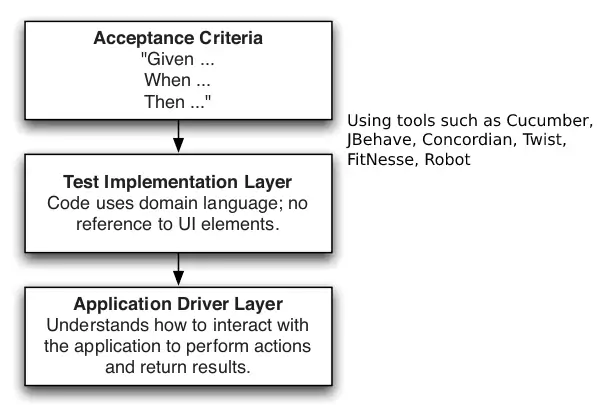
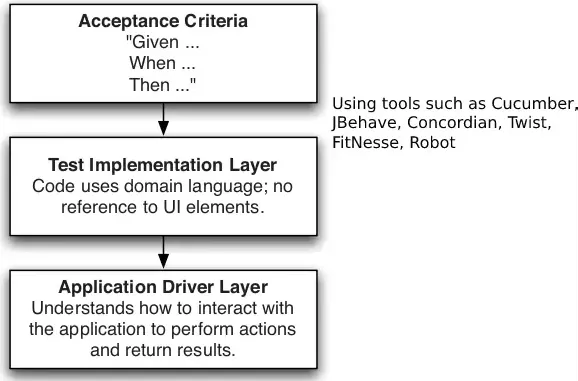
Make the paragraphs in the 10-automated-acceptance-testing presentation smaller.

Changed region(s): [[0.0, 0.0, 1.0, 1.0]]

diff --git a/index.html b/index.html
@@ -30,7 +30,7 @@
             full-screen mode by pressing <strong>F</strong>, initiate a search by pressing
             <strong>Ctrl+Shift+F</strong>, zoom in by pressing <strong>Ctrl+MouseClick</strong>, and print as PDF by
             appending <strong>?print-pdf</strong> to the end of the URL and using the browser's print dialog.
-        </p>         
+        </p>
         <ul>
             <li><a href="1-outline">Course Outline</a></li>
             <li><a href="2-introduction">Introduction</a></li>

diff --git a/10-automated-acceptance-testing/presentation.md b/10-automated-acceptance-testing/presentation.md
@@ -4,22 +4,22 @@
 <img src="assets/user-story-acceptance-criteria-and-test.webp"/>
 
 <small><strong>Time to Read:</strong> 10 Minutes</small>, <small><strong>Time to Present:</strong> 50 Minutes</small>
-
+<br>
 <small><strong>Created By:</strong> Alireza Roshanzamir</small>
-
+<br>
 <small><strong>Keywords:</strong> Continuous Delivery, Continuous Integration, DevOps, Build, Test, Release, Deployment, Automation, Version Control, Deployment Pipeline</small>
-
-<small><small> Tir 1402/August 2023</small></small>
+<br><br>
+<small style="color: darkred"><small>Press **"F"** to go fullscreen; some slides may not display properly otherwise.</small></small>
 
 ---
 ## Introduction
-Once you have automated acceptance tests in place, you are testing the **business acceptance criteria** of your application, that is, validating that **it provides users with valuable functionality**.
+Automating acceptance tests ensures your application meets  **business acceptance criteria** and **delivers valuable functionality**.
 
-They typically **run against** every version of your **software that passes the commit tests**.  <!-- .element: class="fragment fade-in-paragraph" -->
+Thet usually run on **every software version** that **passes commit tests**.  <!-- .element: class="fragment fade-in-paragraph custom" -->
 
-An individual acceptance test is intended to verify that the **acceptance criteria** of a **story or requirement** have been met.  <!-- .element: class="fragment fade-in-paragraph" -->
+Each **acceptance test** aims to confirm if a **story or requirement's acceptance criteria** are fulfilled.  <!-- .element: class="fragment fade-in-paragraph custom" -->
 
-A **unit test** aims to show that a **single part of the application does what the programmer intends** it to; this is by no means the same as asserting that a **user has what they need**.  <!-- .element: class="fragment fade-in-paragraph" -->
+Unit tests check if **a specific app part** works as intended **by the programmer**, which **isn't** the same as ensuring **user needs** are met.  <!-- .element: class="fragment fade-in-paragraph custom" -->
 
 <img src="assets/acceptance-test-stage.webp">
 
@@ -27,23 +27,25 @@ A **unit test** aims to show that a **single part of the application does what t
 ## Why Is Automated Acceptance Testing Essential?
 <img src="assets/why-meme.webp" class="fragment start">
 
-There has always been a **great deal of controversy** around automated acceptance tests.  <!-- .element: class="fragment fade-in-paragraph" -->
+Automated acceptance tests have **long been a subject of controversy**.  <!-- .element: class="fragment fade-in-paragraph custom" -->
 
-**Project managers** and **customers** often think they are too expensive to create and maintain-which indeed, when done badly, they are.  <!-- .element: class="fragment fade-in-paragraph" -->
+**Project managers** and **customers** often think they are **too expensive** to **create** and **maintain**-indeed, when **done badly, they are**.  <!-- .element: class="fragment fade-in-paragraph custom" -->
 
-Many developers believe that unit test suites created through **test-driven development** are **enough to protect against regressions**.  <!-- .element: class="fragment fade-in-paragraph" -->
+Developers often think unit tests from **test-driven development** are **enough to prevent regressions**.  <!-- .element: class="fragment fade-in-paragraph custom" -->
 
-But, the **cost of a properly created and maintained** automated acceptance test suite is **much lower** than that of **performing frequent manual acceptance and regression testing**, or that of the alternative of releasing **poor-quality software**.  <!-- .element: class="fragment fade-in-paragraph" -->
+But, a **well-maintained automated** acceptance test suite costs **far less** than **manual acceptance and regression testing** or **releasing low-quality software**.  <!-- .element: class="fragment fade-in-paragraph custom" -->
 
-Some people **in the Agile community** advocate that a combination of **unit** and **component tests** and **XP practices** are sufficient but:  <!-- .element: class="fragment fade-in-parent-with-next" -->
-1. **No other type of test** proves that the application, running more or less as it would in production, **delivers the business** value its users are expecting.
-2. Unit and component tests **do not test user scenarios** and are thus incapable of finding the kinds of defects that appear when users put the application through a **series of states** in the course of interacting with it.
+Some people **in the Agile community** suggest that a mix of **unit** and **component tests** along with **XP practices** suffice, but:  <!-- .element: class="fragment fade-in-parent-with-next custom" -->
+1. **No other type of test** proves that the application, running similarly to production, **delivers the business value** to users.
+2. Unit and component tests **don't test user scenarios**, so they **can't find** defects that **arise as users interact** with the application through a **series of states**.
+
+<img src="assets/user-interaction-meme.jpg" width="220" class="fragment fade-in">
 
 ------
 ### How to Create Maintainable Acceptance Test Suites: INVEST
 <img src="assets/write-vs-maintain-tests2-meme.webp" class="fragment start">
 
-Acceptance tests are derived from **acceptance criteria**, so the acceptance criteria for your application must be written with automation in mind and must follow the **INVEST** principles:  <!-- .element: class="fragment fade-in-parent-with-next" -->
+Acceptance tests come from **acceptance criteria**, so your criteria must consider automation and follow the **INVEST** principles:  <!-- .element: class="fragment fade-in-parent-with-next custom" -->
 - **I**ndependent (of all others)
 - **N**egotiable (not a contract for specific feature)
 - **V**aluable (a vertical slice)
@@ -52,19 +54,83 @@ Acceptance tests are derived from **acceptance criteria**, so the acceptance cri
 - **T**estable (even if the test doesn't exist yet)
 
 ------
+### Continued: How to Create Maintainable Acceptance Test Suites: INVEST
+Examples (from [here](https://capgemini.github.io/agile/invest-in-user-stories/) and [here](https://www.towerhousestudio.com/blog/how-to-evaluate-your-user-stories-using-the-invest-criteria)):
+- User Story:
+  <table style="font-size: 17px">
+    <tr>
+      <th>Bad</th>
+      <th>Better</th>
+    </tr>
+    <tr>
+      <td>
+        As a customer, I want the website to have a new layout and design so that it looks more modern.
+        <details>
+          <summary>Why?</summary>
+          This User Story is not independent as it requires changes to be made to the entire website. It is also not easily estimable as it is too broad and could require significant effort to complete.
+        </details>
+      </td>
+      <td>
+        As a customer, I want to search for products by category so that I can find the products I am looking for more easily.
+      </td>
+    </tr>
+    <tr>
+      <td>
+        As a salesperson, I want to view all of the company's financial information so that I can make better business decisions.
+        <details>
+          <summary>Why?</summary>
+          This User Story is not negotiable as it requests access to sensitive information. It is also not easily testable as it requires access to sensitive financial information.
+        </details>
+      </td>
+      <td>
+        As a salesperson, I want to view a list of my customers so that I can keep track of my customer relationships.
+      </td>
+    </tr>
+    <tr>
+      <td>
+        As an XYZ customer ordering using the website, I want to be able to use the One-click Payment option, so that I can skip the payment pages and complete my order faster.
+        <details>
+          <summary>Why?</summary>
+          <strong>Type of Customers</strong>: Is this feature available to all new and existing customers?<br>
+          <strong>New Customers</strong>: What should be the workflow for a new customer after the One-click Payment option has gone live?<br>
+          <strong>First Visit of Existing Customers without saved card details</strong>: What should be the workflow of an existing customer who has not saved any card details and visits for the first time after the One-click Payment option has gone live?<br>
+          <strong>First Visit of Existing Customers with saved card details</strong>: What should be the workflow of an existing customer who has already saved their card details and visits for the first time after the One-click Payment option has gone live?<br>
+          <strong>Existing Customers not opted for One-click Payment</strong>: What should be the workflow of an existing customer who has not opted to register for the One-click Payment in their previous visit after the feature has gone live?<br>
+          <strong>Existing One-click Payment Customers</strong>: What should be the workflow of an existing customer who has successfully registered their card for the One-click Payment in their previous visit?<br>
+        </details>
+      </td>
+      <td>
+        As an EXISTING ONE-CLICK PAYMENT XYZ CUSTOMER ordering from the <strong>WEB</strong> using a <strong>DESKTOP OR LAPTOP</strong>, I want to be able to CLICK ON THE ONE-CLICK PAYMENT OPTION so that I can skip the payment pages and complete my order faster.
+      </td>
+    </tr>
+  </table>
+
+
+- <!-- .element: class="fragment fade-in" --> Acceptance Criteria:
+  **Given**: An EXISTING ONE-CLICK PAYMENT WEB XYZ Customer, **When**: The Customer orders through the website and clicks on Checkout using a desktop or a laptop, **Then**: The Customer must be presented with a One-click Payment button.
+
+  **Checklists**: This test must pass when tested on:
+  - Approved versions of IE browsers
+  - Approved versions of Chrome browsers
+  - Approved versions of Firefox browsers
+  - Approved versions of Safari browsers
+
+------
 ### How to Create Maintainable Acceptance Test Suites: Layering
-Automated acceptance tests should always be layered:
+Automated acceptance tests should be layered:
 
-<img src="assets/acceptance-tests-layers.webp" width="600">
+<img src="assets/acceptance-tests-layers.webp" width="450">
 
-Test implementations that **refer directly** to the **application's API** or **UI** are **brittle**, and even **small changes to the UI** will immediately **break all the tests** referring to the changed UI element. Such tests are often the output of **record-and-playback-style test** automation products, which is one of the main reasons automated acceptance tests are perceived as expensive.
+Tests that **directly use** the **application's API** or **UI** are **brittle** and **minor UI changes** can **break all such tests**. They often result from **record-and-playback-style test** automation tools, one of the main reasons automated acceptance tests are perceived as expensive.  <!-- .element: class="fragment fade-in-parent-with-next custom" -->
+
+<img src="assets/test-record-and-playback-tool.png" width="530" style="border: 1px solid lightgray">
 
 ------
 ### Testing against the GUI
 <img src="assets/ui-automation-tests-failed-meme.webp" class="fragment start">
 
-Drawbacks of the GUI testing:  <!-- .element: class="fragment fade-in-with-next" -->
-- Its rapid rate of change  <!-- .element class="fragment highlight-current-blue" -->
+Drawbacks of the GUI testing:  <!-- .element: class="fragment fade-in-with-next custom" -->
+- Rapid rate of change  <!-- .element class="fragment highlight-current-blue" -->
 - <!-- .element class="fragment highlight-current-blue" --> The complexity of scenario setup
   - Many interactions to get the system into a state ready for the test itself
 - Access to test results  <!-- .element class="fragment highlight-current-blue" -->
@@ -72,46 +138,46 @@ Drawbacks of the GUI testing:  <!-- .element: class="fragment fade-in-with-next"
 
 ---
 ## Creating Acceptance Tests
-Start with the identification of **acceptance criteria** by **analysts**, **testers**, and **customers** working together, and then talk about **representing acceptance criteria in a form that can be automated**.
+Begin with **analysts**, **testers**, and **customers** collaborating to **identify acceptance criteria**. Then, **transform** these criteria into **a format suitable for automation**.
 
 ------
 ### The Role of Analysts and Testers
 The role of the **business analyst** is:
 - Represent the customers and users of the system. They work with the customer to identify and prioritize requirements.  <!-- .element class="fragment highlight-current-blue" -->
-- Work with the developers to ensure that they have a good understanding of the application from the user's perspective. They guide developers to ensure that stories deliver the business value that they are meant to.  <!-- .element class="fragment highlight-current-blue" -->
-- Work with testers to ensure that acceptance criteria are specified properly, and to ensure that functionality developed meets these acceptance criteria and delivers the expected value.  <!-- .element class="fragment highlight-current-blue" -->
+- Work with developers to ensure they grasp the application from the user's perspective. Guide developers to ensure that stories deliver the intended business value.  <!-- .element class="fragment highlight-current-blue" -->
+- Work with testers to ensure correct acceptance criteria and functionality alignment, delivering expected value.  <!-- .element class="fragment highlight-current-blue" -->
 
-The role of the **testers** is:  <!-- .element class="fragment fade-in-parent-with-next" -->
-- Ensure that the current quality and production-readiness of the software being developed is understood by everybody on the delivery team, including the customer.  <!-- .element class="fragment highlight-current-blue" -->
+The role of the **testers** is:  <!-- .element class="fragment fade-in-parent-with-next custom" -->
+- Ensure everyone, including the customer, understands the software's current quality and production readiness.  <!-- .element class="fragment highlight-current-blue" -->
 - Working with customers and analysts to define acceptance criteria for stories or requirements.  <!-- .element class="fragment highlight-current-blue" -->
 - Working with developers to write automated acceptance tests.  <!-- .element class="fragment highlight-current-blue" -->
 - Performing manual testing activities such as exploratory testing, manual acceptance testing, and showcases.  <!-- .element class="fragment highlight-current-blue" -->
 
-Not every team has **separate individuals** who perform **these roles 100% of the time**. Sometimes, **developers act as analysts**, or **analysts act as testers**. In **Scrum** teams, **product owners** may do the analyst jobs.  <!-- .element class="fragment fade-in-paragraph" -->
+Not every team has **separate individuals** who perform **these roles 100% of the time**. Sometimes, **developers act as analysts**, or **analysts act as testers**. In **Scrum** teams, **product owners** may do the analyst jobs.  <!-- .element class="fragment fade-in-paragraph custom" -->
 
 ------
 ### Analysis on Iterative Projects
-1. Initially, the **analysts** will work closely with **testers** and the **customer** to define **acceptance criteria**.  <!-- .element class="fragment fade-in-then-semi-out-parent" -->
-2. Once the **acceptance criteria have been defined**, the **analyst** and **tester** sit with the **developers** who will do the implementation, along **with the customer if available**. The **tester works with the developers** to **agree on a collection of automated acceptance tests**.  <!-- .element class="fragment fade-in-then-semi-out-parent" -->
-3. While the requirement is **being implemented**, the **developers** will **consult with the analyst** if they find an **area that they don't understand** well enough, or if they have discovered a problem or a more efficient approach to solving the problem that the requirement poses.  <!-- .element class="fragment fade-in-then-semi-out-parent" -->
-4. When the **developers** believe that they have **completed the work** (passed associated **unit**, **component**, and **acceptance tests**), they will **demonstrate** it to the **analyst**, the **tester**, and the **customer**.  <!-- .element class="fragment fade-in-then-semi-out-parent" -->
-5. Once the **analyst** and the **customer** are happy that the **requirement has been fulfilled**, it **moves on to testing by the testers**.  <!-- .element class="fragment fade-in-then-semi-out-parent" -->
+1. At first, **analysts** collaborate with **testers** and the **customer** to define **acceptance criteria**.  <!-- .element class="fragment fade-in-then-semi-out-parent custom" -->
+2. Then, just before implementation, the **analyst**, **tester**, and **developers** (plus the customer if available) **meet**. The **analyst** explains the **requirement and criteria**, and the **tester and developers** **create automated tests** for validation.  <!-- .element class="fragment fade-in-then-semi-out-parent custom" -->
+3. While **implementing the requirement**, **developers** **consult with the analyst** if they **encounter unclear areas** or **identify issues or better solutions** to address the requirement.  <!-- .element class="fragment fade-in-then-semi-out-parent custom" -->
+4. Once **developers** believe they've **finished the work** (including passing **unit**, **component**, and **acceptance tests**), they'll **present** it to the **analyst**, **tester**, and **customer**.  <!-- .element class="fragment fade-in-then-semi-out-parent custom" -->
+5. Once the **analyst** and the **customer** are happy that the **requirement has been fulfilled**, it **moves on to testing by the testers**.  <!-- .element class="fragment fade-in-then-semi-out-parent custom" -->
 
 <img src="assets/roles.webp">
 
 ------
 ### Acceptance Criteria as Executable Specifications (BDD)
-Acceptance tests are **executable specifications** of the **behavior of the software** being developed. This is a significant realization which has spawned a new approach to automated testing, known as **behavior-driven development (BDD)**.  <!-- .element class="fragment fade-in-paragraph" -->
+Acceptance tests act as **executable specs** for the **software's behavior**, lead to **behavior-driven development** in automated testing.
 
-In BDD, **acceptance criteria** should be written in the form of the **customer's expectations** of the behavior of the application. It should then be possible to take acceptance criteria thus written, and **execute them directly** against the application to **verify that the application meets its specifications**.  <!-- .element class="fragment fade-in-paragraph" -->
+In BDD, **acceptance criteria** are **customer expectations** for **application behavior**, **written** to **execute directly** and **verify compliance with specifications**.  <!-- .element class="fragment fade-in-paragraph custom" -->
 
-Most **specifications** begin to **become out-of-date** as the application evolves. But, with BDD and deployment pipeline, it's not possible.  <!-- .element class="fragment fade-in-paragraph" -->
+Most **specifications** can **become outdated** as the application evolves, but with BDD and a deployment pipeline, it's not possible.  <!-- .element class="fragment fade-in-paragraph custom" -->
 
 ------
 ### Acceptance Criteria as Executable Specifications Example
-Financial trading application acceptance criterion and corresponding **Ruby Cucumber** implementation:
+Financial trading application acceptance criterion and **Ruby Cucumber** implementation:
 
-<pre class="gherkin"><code style="font-size: 15px; line-height: normal;" data-trim data-noescape>Feature: Placing an order
+<pre class="gherkin"><code style="font-size: 17px; line-height: normal;" data-trim data-noescape>Feature: Placing an order
 Scenario: User order should debit account correctly
 
 Given there is an instrument called bond
@@ -123,7 +189,7 @@ When I log in as Dave
 Then I have 10 dollars left in my account
 </code></pre>
 
-<pre class="ruby"><code style="font-size: 15px; line-height: normal; height: 200px">require 'application_driver/admin_api'
+<pre class="ruby"><code style="font-size: 17px; line-height: normal; height: 200px">require 'application_driver/admin_api'
 require 'application_driver/trading_ui'
 
 Before do
@@ -172,17 +238,17 @@ You should implement the **AdminApi** and **TradingUi** drivers. Running result:
 0m0.016s
 </code></pre>
 
-These executable specifications can generally be **turned into a document** suitable for auditing using a simple, automated process.
+You can turn these specs into an audit-friendly **document** with a simple automated process.
 
 ---
 ## Testing and Documentation
-In addition to using BDD and employing human-readable executable specifications within the documentation, you can include the **tests as illustrative examples in the documents**. By **making assertions**, you should validate the outcomes of the code showcased in the documentation's examples. Consequently, the **code within the documentation** could effectively serve as an **automated acceptance test**, contributing to the concept of **"living documentation"**:
+Besides using BDD and human-readable executable specs in documentation, you can also include **tests as examples in the documents**. By **asserting** and **validating code outcomes** in the documentation's examples, this code can serve as **automated acceptance tests**, supporting the idea of **"living documentation"**:
 
 <img src="assets/living-documentation.webp">
 
 ------
 ### Testing and Documentation: Doctest
-Write **usage examples** for your code that work as **documentation** and **test cases** simultaneously:
+Create **usage examples** that serve as both **documentation** and **test cases** simultaneously:
 
 <table>
   <tr>
@@ -190,18 +256,18 @@ Write **usage examples** for your code that work as **documentation** and **test
     <th>Output</th>
   </tr>
   <tr class="simple">
-    <td><img src="assets/doctests-docstring.webp" width="420"></td>
-    <td><img src="assets/doctests-docstring-output.webp" width="420"></td>
+    <td><img src="assets/doctests-docstring.webp" width="440"></td>
+    <td><img src="assets/doctests-docstring-output.webp" width="440"></td>
   </tr>
   <tr>
-    <td><img src="assets/doctests-docs.webp" width="420"></td>
-    <td><img src="assets/doctests-docs-output.webp" width="420"></td>
+    <td><img src="assets/doctests-docs.webp" width="440"></td>
+    <td><img src="assets/doctests-docs-output.webp" width="440"></td>
   </tr>
 </table>
 
 ------
 ### Testing and Documentation: FitNesse
-FitNesse is an **open source test framework** that allows software testers, developers and customers to collaborate to create test cases on a **wiki**:
+FitNesse is an **open source test framework** that allows testers, developers, and customers to collaborate on test cases using a **wiki**:
 
 <img src="assets/fitness-output2.webp" width="1100">
 
@@ -209,10 +275,10 @@ FitNesse is an **open source test framework** that allows software testers, deve
 ## The Application Driver Layer
 The application driver layer is the layer that understands **how to talk to your application-the system under test (SUT)**.
 
-The API for the application driver layer is expressed in a **domain language**.  <!-- .element class="fragment fade-in-paragraph" -->
+The API for the application driver layer is expressed in a **domain language**.  <!-- .element class="fragment fade-in-paragraph custom" -->
 
-This is the same acceptance test written using a **JUnit** test:  <!-- .element class="fragment fade-in-parent-with-next" -->
-<pre class="java"><code style="font-size: 13px; line-height: normal">public class PlacingAnOrderAcceptanceTest extends DSLTestCase {
+This is the same acceptance test written using a **JUnit** test:  <!-- .element class="fragment fade-in-parent-with-next custom" -->
+<pre class="java"><code style="font-size: 20px; line-height: normal">public class PlacingAnOrderAcceptanceTest extends DSLTestCase {
     @Test
     public void userOrderShouldDebitAccountCorrectly() {
         adminAPI.createInstrument("name: bond");
@@ -228,19 +294,19 @@ This is the same acceptance test written using a **JUnit** test:  <!-- .element 
 }
 </code></pre>
 
-It is instructive to compare the example acceptance test in **JUnit (internal DSL)**, above, to the one expressed in **Cucumber in the previous slides (external DSL)**. Either of these approaches will work just fine, and each has its **pros** and **cons** (**being textual**, **relation with acceptance crietria**, **auto-completeness**, **IDE**, **additional tools**, and etc.)  <!-- .element class="fragment fade-in-paragraph" -->
+**Comparing** the **JUnit (internal DSL)** and **Cucumber (external DSL)** acceptance tests is useful. Each has **pros** and **cons**, like **text-based**, **alignment with criteria**, **auto-completion**, **IDE support**, and **extra tools**.  <!-- .element class="fragment fade-in-paragraph custom" -->
 
 ------
 ### The Window Driver Pattern: Decoupling the Tests from the GUI
-When implementing the window driver pattern, you should write the equivalent of a device driver for each part of your GUI:
+When using the window driver pattern, create a device driver **for each part of your GUI**:
 
-<img src="assets/window-driver-pattern.webp" width="500">
+<img src="assets/window-driver-pattern.webp" width="700">
 
 ------
 ### Continued: The Window Driver Pattern: Decoupling the Tests from the GUI
-Acceptance test without layering:
+Acceptance test **without** layering:
 
-<pre class="java"><code style="font-size: 13px; line-height: normal">@Test
+<pre class="java"><code style="font-size: 14px; line-height: normal">@Test
 public void shouldDeductPaymentFromAccountBalance() {
     selectURL("http://my.test.bank.url");
     enterText("userNameFieldId", "testUserName");
@@ -260,7 +326,7 @@ public void shouldDeductPaymentFromAccountBalance() {
 }
 </code></pre>
 
-Refactored with the **AccountPanelDriver** as window driver (note the GUI control names in the entities and functions):
+**Refactored** with the **AccountPanelDriver** as window driver (note the GUI control names in the entities and functions):
 
 <pre class="java"><code style="font-size: 15px; line-height: normal; height: 280px">@Test
 public void shouldDeductPaymentFromAccountBalance() {
@@ -301,29 +367,31 @@ There is more to the implementation of acceptance tests than layering:
 
 ---
 ## The Acceptance Test Stage
-Acceptance test suite should be run against **every build that passes the commit tests**. **Later pipeline stages** are most commonly treated as a matter of **human judgment**.
+Run the acceptance test suite against **every build that passes the commit tests**. **Later pipeline stages** are often subject to **human judgment**.
 
-For projects of **extremely short duration** with a **small team**, maybe **four or fewer developers**, it **may be overkill**-you might instead run **a few end-to-end tests** as part of a single-stage CI process. But, it bears repeating that **large projects start out as small projects**, and by the time a project gets large, it is invariably **too late to retro-fit** a comprehensive set of automated acceptance tests **without a Herculean level of effort**.  <!-- .element: class="fragment fade-in-paragraph" -->
+In **very short projects** with a **small team (four or fewer developers)**, using a **few end-to-end tests** in a single-stage CI process may **suffice**. However, remember that **large projects begin as small ones**, and retrofitting a comprehensive set of automated acceptance tests into a large project **later on requires a herculean effort**.  <!-- .element: class="fragment fade-in-paragraph custom" -->
 
-Tips for the acceptance test stage:  <!-- .element: class="fragment fade-in-with-next" -->
+Tips for the acceptance test stage:  <!-- .element: class="fragment fade-in-with-next custom" -->
 - <!-- .element class="fragment highlight-current-blue" --> Keeping Acceptance Tests Green
   - When an acceptance test breaks, the team needs to stop and immediately triage.
   - Determining what may have caused a specific acceptance test failure is not as simple as for a unit test.
 - <!-- .element class="fragment highlight-current-blue" --> Deployment Tests
-  - Choose to run a small selection of new smoke tests designed to assert that our environment (infrastructure tests or environment tests) -> Known-good starting point for the execution of the more functional acceptance tests.
+  - Select a small set of new smoke tests to verify our environment (infrastructure or environment tests) &rArr; A reliable starting point for running more functional acceptance tests.
   - This tests are prioritized and fail-fast.
 
 ---
 ## Acceptance Test Performance
 Ultimately it is more important to have a **comprehensive automated test suite than one that runs in ten minutes**.
 
-But, the longer the time between the point where a problem is introduced and the point of discovering it, the **more difficult** it will be to **find the source of the problem** and fix it:  <!-- .element: class="fragment fade-in-parent-with-next" -->
+But, the **longer** it takes to **discover a problem** after it's introduced, the **harder** it is to **identify and fix its source**:  <!-- .element: class="fragment fade-in-parent-with-next custom" -->
 - Refactor and Improve Common Tasks and Initial States  <!-- .element class="fragment highlight-current-blue" -->
 - Share Expensive Resources  <!-- .element class="fragment highlight-current-blue" -->
 - Parallel Testing and Using Compute Grids  <!-- .element class="fragment highlight-current-blue" -->
 
 ---
 ## Summary
-Automated acceptance tests are usually **more complex** than unit tests. They take more time to maintain, and they will probably spend **more of their life being broken** than unit tests.
+<img src="assets/not-writing-acceptance-tests-meme.jpeg" class="fragment start" width="500">
 
-The use of automated acceptance testing will **pay for itself** many times over; **we have never regretted their use**.  <!-- .element: class="fragment fade-in-paragraph" -->
+Automated acceptance tests are typically **more complex** than unit tests. They require more maintenance and are **likely to be broken more often**.  <!-- .element: class="fragment fade-in-paragraph custom" -->
+
+The use of automated acceptance testing will **pay for itself** many times over; **we have never regretted their use**.  <!-- .element: class="fragment fade-in-paragraph custom" -->
